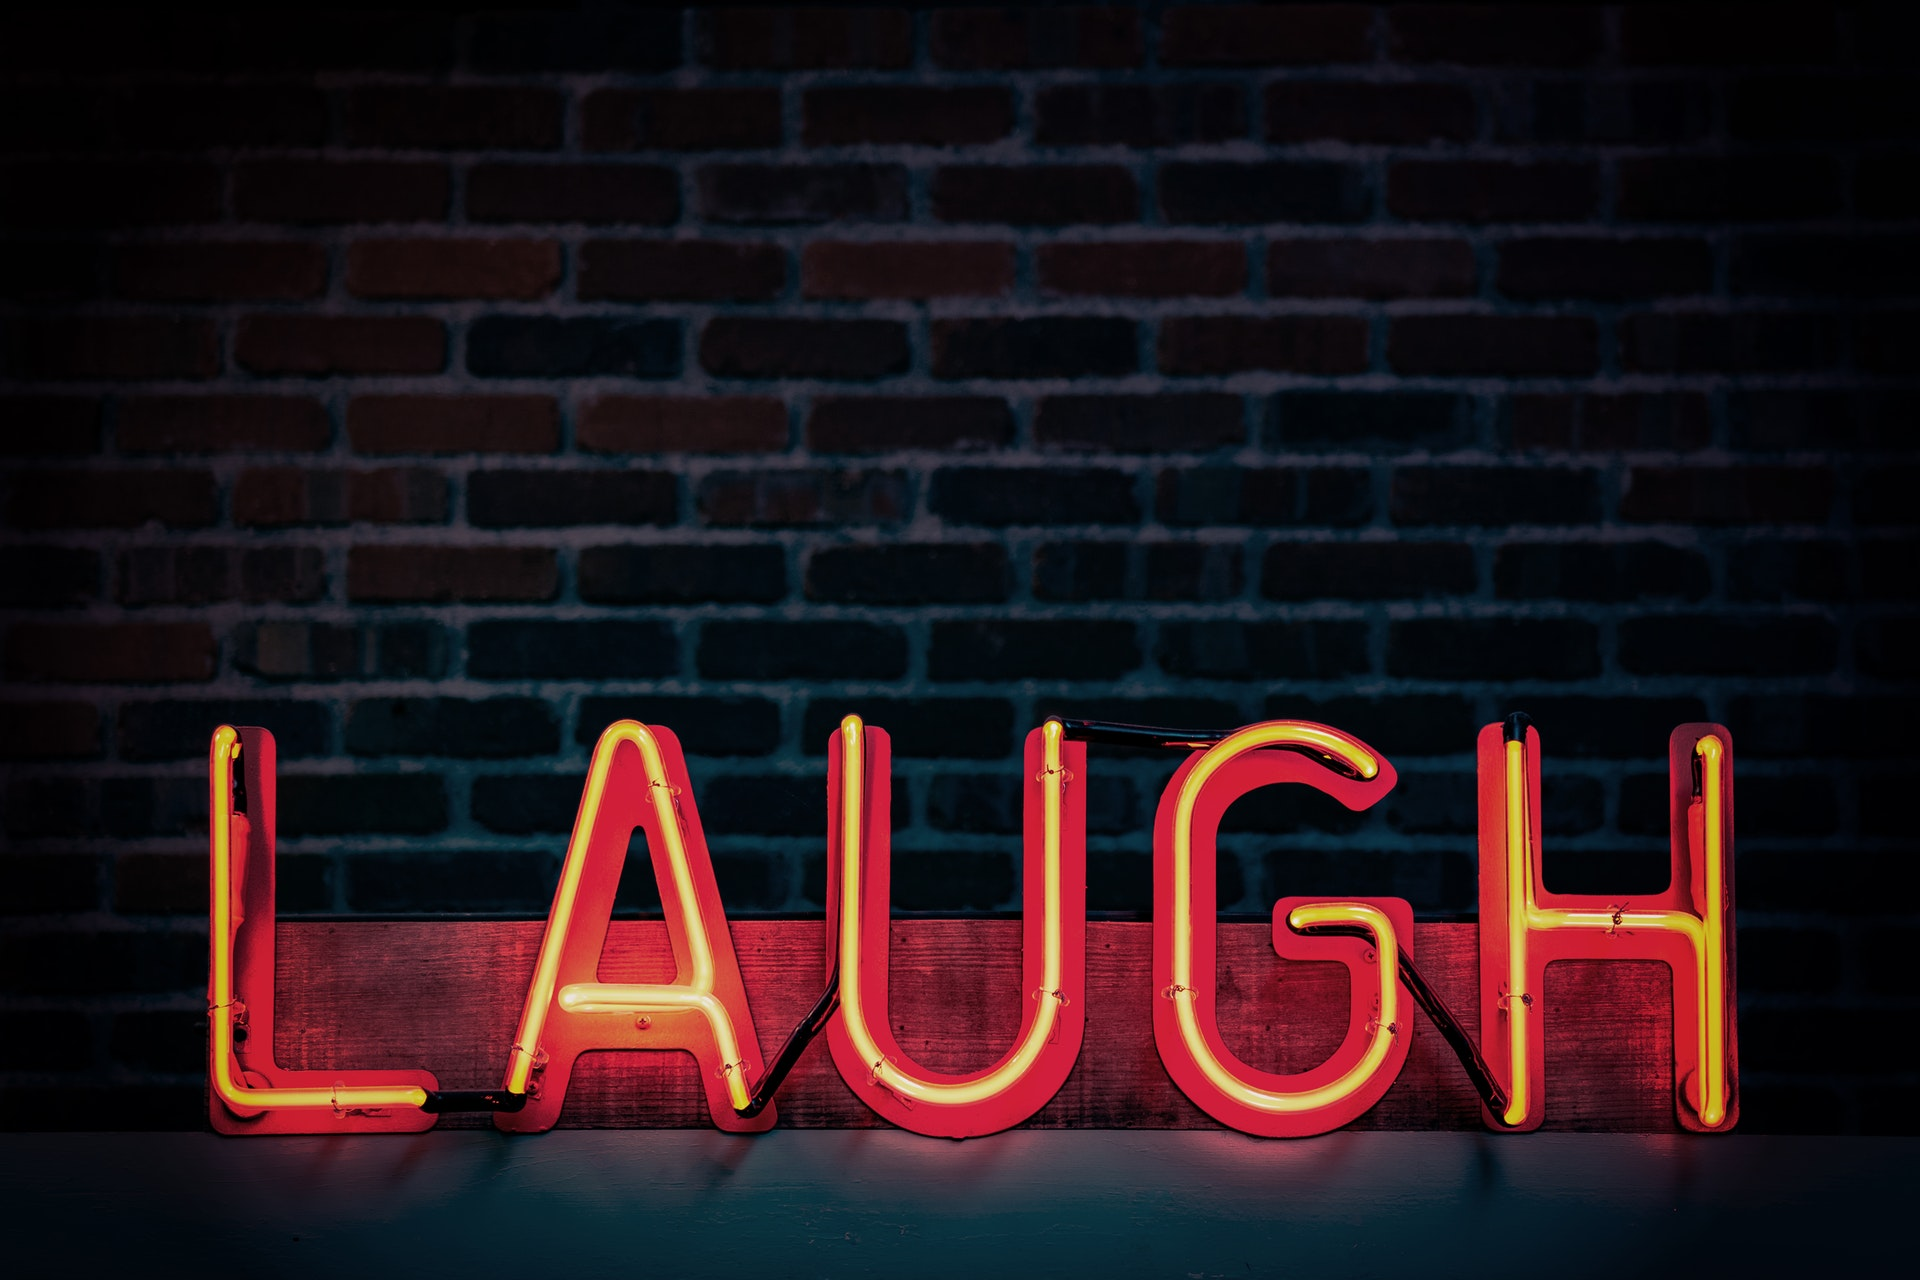
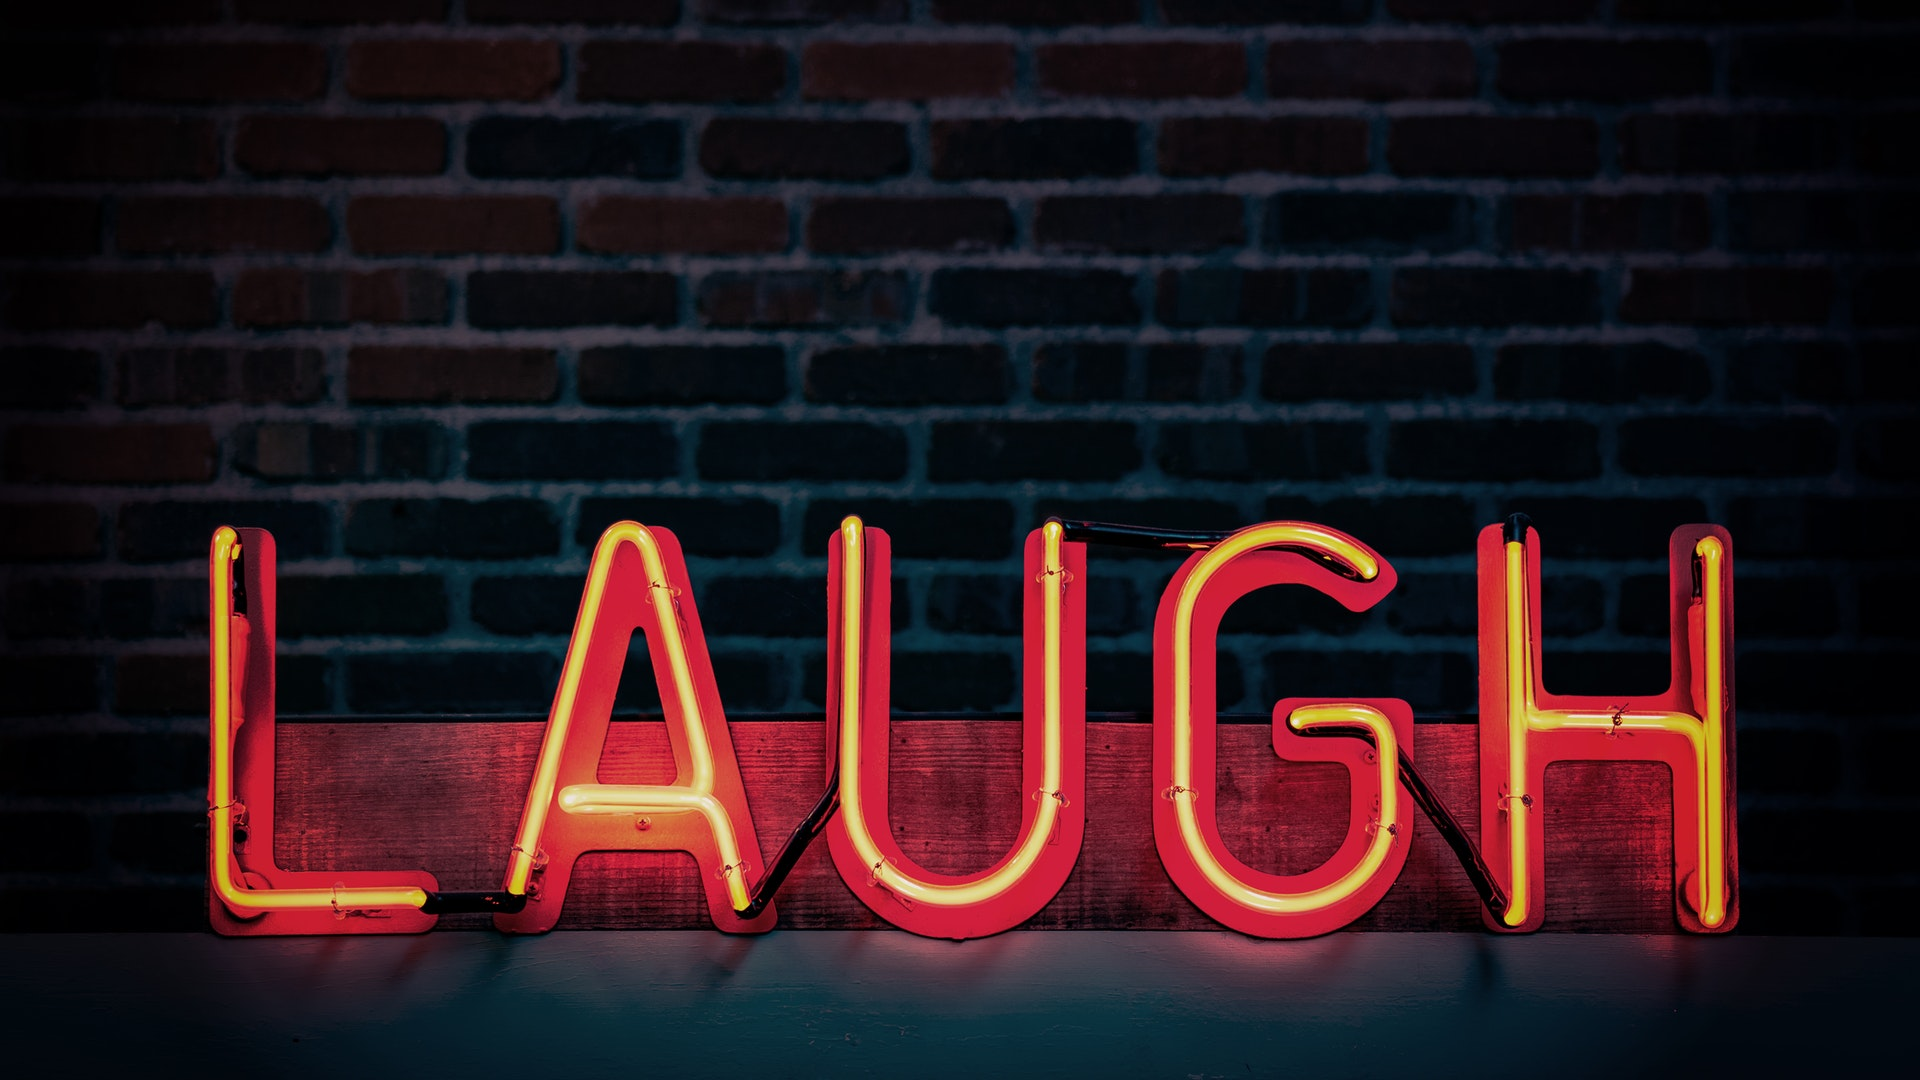
Trying a new code along for inspuration to create login page, however, the responsiveness does not look good in mobile/tablet, so will find another source of inspuration. Added resized background image to fit 1920x1080 size that is ideal for browsers on desktop and mobile

Changed region(s): [[0.0312, 0.2139, 0.9062, 0.9472], [0.0938, 0.0, 0.9375, 0.2444], [0.8438, 0.0917, 0.875, 0.1222]]

diff --git a/templates/base.html b/templates/base.html
@@ -35,9 +35,7 @@
   </div>
 </nav>
 
-    <div class="section">
         {% block content %} {% endblock %}
-    </div>
 
 <script src="https://code.jquery.com/jquery-3.4.1.slim.min.js" integrity="sha384-J6qa4849blE2+poT4WnyKhv5vZF5SrPo0iEjwBvKU7imGFAV0wwj1yYfoRSJoZ+n" crossorigin="anonymous"></script>
 <script src="https://cdn.jsdelivr.net/npm/popper.js@1.16.0/dist/umd/popper.min.js" integrity="sha384-Q6E9RHvbIyZFJoft+2mJbHaEWldlvI9IOYy5n3zV9zzTtmI3UksdQRVvoxMfooAo" crossorigin="anonymous"></script>

diff --git a/templates/login.html b/templates/login.html
@@ -1,7 +1,7 @@
 {% extends 'base.html'%} {% block content %}
 <div class="container-fluid bg">
     <div class="row justify-content-center">
-        <div class="col-12 col-sm-6 col-md-3">
+        <div class="col-12 col-sm-6 col-lg-5 m-auto">
             <form class="form-container" method="POST" action="{{url_for('login')}}">
                 <div class="form-group">
                     <label for="inputUsername">Username</label>

diff --git a/static/css/style.css b/static/css/style.css
@@ -48,7 +48,7 @@
     background: url("../images/laugh-bg.jpg") no-repeat;
     width: 100%;
     height: 100vh;
-    background-size: 200%; 
+    background-size: 100%; 
 }
 
 .form-container {
